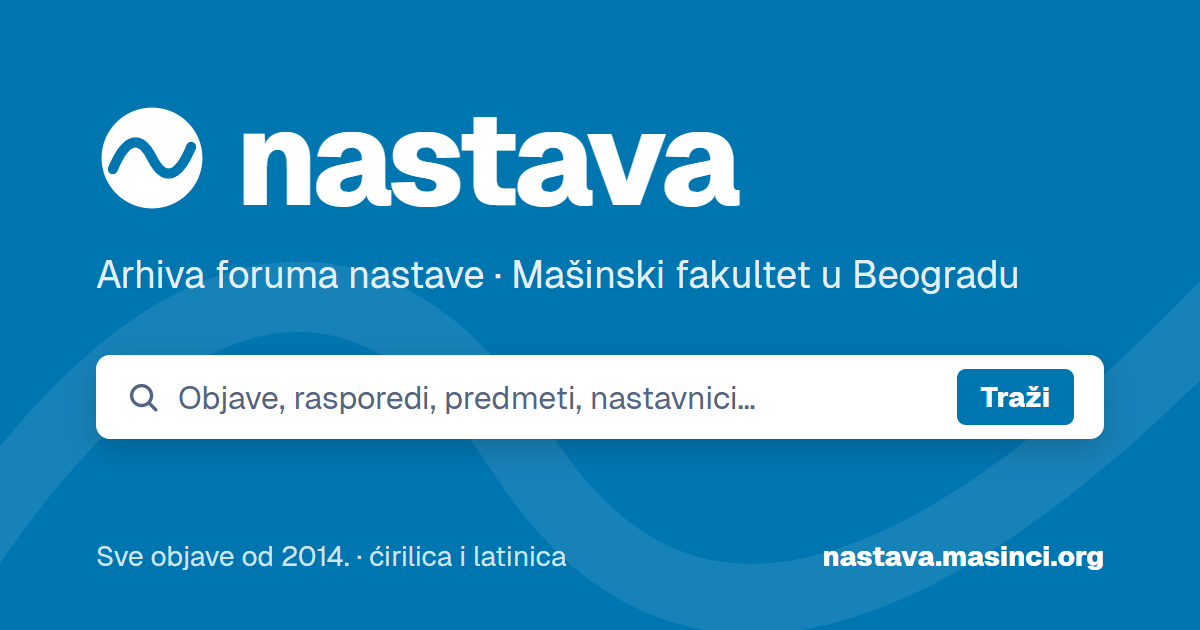
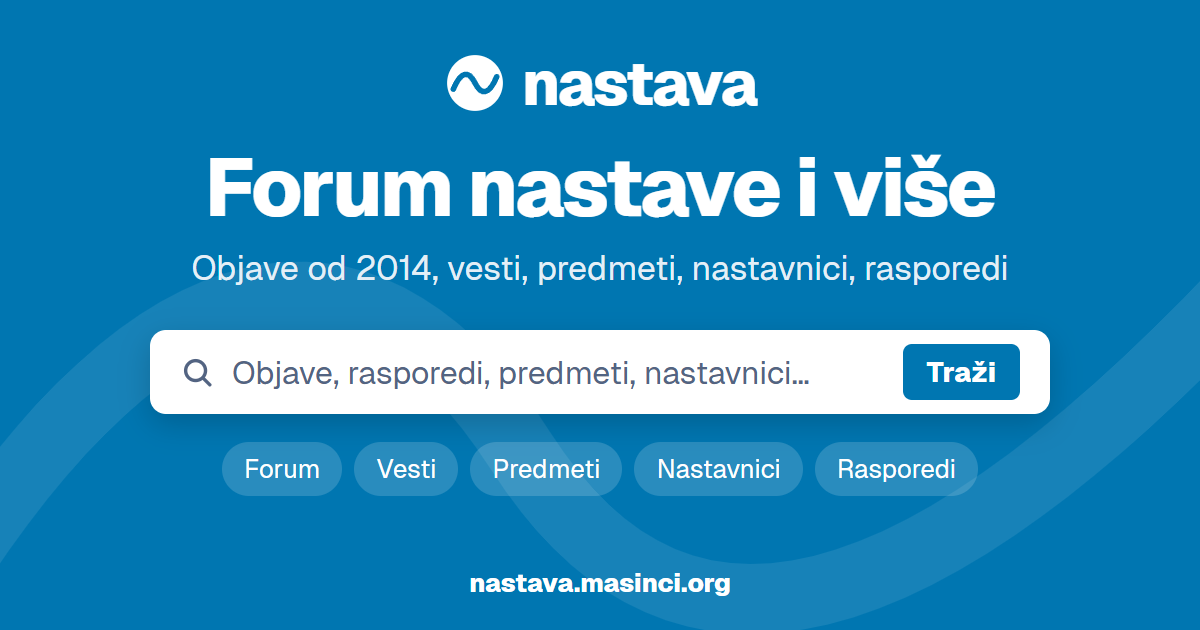
Preview image per section

diff --git a/pages/og.html b/pages/og.html
@@ -1,41 +1,135 @@
 <!doctype html>
-<!-- The link preview image, static/og.png (base.html og:image). To redo it, from pages/ (headless Edge's own
-     --screenshot cuts the bottom: its window size includes the browser's frame):
+<!-- The link preview images, one per section: static/og.png (the home page and the forum's posts) and
+     static/og-<section>.png (base.html block og). The address's #<section> picks one. To redo them, from pages/
+     (headless Edge's own --screenshot cuts the bottom: its window size includes the browser's frame):
      uv run --with playwright python -c "from playwright.sync_api import sync_playwright as s; from pathlib import Path
-     with s() as p: b = p.chromium.launch(channel='msedge'); g = b.new_page(viewport={'width': 1200, 'height': 630}); g.goto(Path('og.html').resolve().as_uri()); g.wait_for_timeout(300); g.screenshot(path='static/og.png')" -->
+     with s() as p:
+      b = p.chromium.launch(channel='msedge')
+      for n in ['', 'raspored', 'nastavnici', 'arhiva', 'predmeti', 'vesti']: g = b.new_page(viewport={'width': 1200, 'height': 630}); g.goto(Path('og.html').resolve().as_uri() + '#' + n); g.wait_for_timeout(300); g.screenshot(path='static/og' + ('-' + n if n else '') + '.png')" -->
 <html lang="sr">
 <meta charset="utf-8">
 <style>
 @font-face { font-family: Geist; src: url(static/fonts/Geist-Regular.woff2); font-weight: 400; }
 @font-face { font-family: Geist; src: url(static/fonts/Geist-ExtraBold.woff2); font-weight: 800; }
 html, body { margin: 0; width: 1200px; height: 630px; overflow: hidden; }
-body { font-family: Geist, sans-serif; color: #fff; background: #0076b1; position: relative; }
+body { font-family: Geist, sans-serif; color: #fff; background: #0076b1; position: relative; text-align: center; }
 /* The brand's wave, large and faint, across the whole image. */
 .wave { position: absolute; inset: 0; width: 100%; height: 100%; }
-.in { position: absolute; left: 96px; right: 96px; top: 92px; }
-.brand { display: flex; align-items: center; gap: 28px; }
-.mark { width: 112px; height: 112px; }
-h1 { font-weight: 800; font-size: 132px; letter-spacing: -4px; line-height: 1; margin: 0; }
-.sub { font-size: 38px; margin: 26px 0 0; color: #e3eff7; }
-.bar { margin-top: 56px; display: flex; align-items: center; gap: 18px; height: 84px; padding: 0 30px; border-radius: 14px;
-       background: #fff; color: #536482; font-size: 32px; box-shadow: 0 10px 30px rgb(0 0 0 / .18); }
+/* Centred, so that a square crop (Viber, WhatsApp: the middle 630px) keeps the brand whole. */
+.brand { position: absolute; top: 52px; left: 0; right: 0; display: flex; justify-content: center; align-items: center; gap: 16px; }
+.mark { width: 62px; height: 62px; }
+.brand b { font-weight: 800; font-size: 62px; letter-spacing: -2px; line-height: 1; }
+h1 { position: absolute; top: 146px; left: 60px; right: 60px; margin: 0; font-weight: 800; font-size: 82px; letter-spacing: -2.5px; line-height: 1; }
+.sub { position: absolute; top: 246px; left: 60px; right: 60px; margin: 0; font-size: 34px; color: #e3eff7; }
+.pic { position: absolute; top: 330px; left: 50%; width: 900px; height: 196px; transform: translateX(-50%); text-align: left; }
+.ft { position: absolute; left: 0; right: 0; bottom: 30px; font-size: 26px; font-weight: 800; }
+/* The picture's parts: white cards with grey bars for text nobody needs to read. */
+.card { background: #fff; color: #536482; border-radius: 16px; box-shadow: 0 10px 30px rgb(0 0 0 / .18); box-sizing: border-box; }
+.ln { display: block; height: 14px; border-radius: 7px; background: #dbe3ec; }
+.row { display: flex; gap: 20px; height: 100%; }
+.row > .card { flex: 1; padding: 22px; }
+/* Home: the search bar and what it covers. */
+.bar { display: flex; align-items: center; gap: 18px; height: 84px; padding: 0 30px; font-size: 32px; }
 .bar b { margin-left: auto; font-weight: 800; color: #fff; background: #0076b1; border-radius: 9px; padding: 10px 24px; font-size: 28px; }
-.ft { position: absolute; left: 96px; right: 96px; bottom: 56px; display: flex; justify-content: space-between; font-size: 28px; color: #cfe3f0; }
-.ft b { color: #fff; font-weight: 800; }
+.chips { display: flex; justify-content: center; gap: 12px; margin-top: 28px; }
+.chips span { font-size: 26px; padding: 10px 22px; border-radius: 99px; background: rgb(255 255 255 / .16); }
+/* Raspored: a week. */
+.week { display: grid; grid-template-columns: repeat(5, 1fr); gap: 12px; height: 100%; padding: 18px 22px; }
+.week > div { position: relative; }
+.week h3, .sem h3 { margin: 0 0 10px; font-size: 20px; font-weight: 800; color: #536482; }
+.week i { position: absolute; left: 0; right: 0; border-radius: 8px; background: #0076b1; }
+/* Nastavnici: people. */
+.who { display: flex; align-items: center; gap: 16px; margin-bottom: 22px; }
+.av { flex: none; width: 64px; height: 64px; border-radius: 50%; background: #cfe3f0; position: relative; overflow: hidden; }
+.av::before { content: ""; position: absolute; left: 21px; top: 12px; width: 22px; height: 22px; border-radius: 50%; background: #0076b1; }
+.av::after { content: ""; position: absolute; left: 10px; top: 38px; width: 44px; height: 40px; border-radius: 50%; background: #0076b1; }
+.who div { flex: 1; display: grid; gap: 10px; }
+.meta { display: flex; align-items: center; gap: 10px; margin-top: 12px; }
+.meta svg { flex: none; }
+.gone .card { background: rgb(255 255 255 / .62); box-shadow: none; }
+.gone .av { background: #e4e8ee; }
+.gone .av::before, .gone .av::after { background: #9aa6b8; }
+/* Predmeti: semesters. */
+.sem { display: grid; grid-template-columns: repeat(4, 1fr); gap: 18px; height: 100%; padding: 20px 22px; }
+.subj { display: flex; align-items: center; gap: 8px; margin-bottom: 18px; }
+.subj .ln { flex: 1; }
+.subj em { font-style: normal; font-size: 15px; font-weight: 800; color: #0076b1; background: #e3eff7; border-radius: 6px; padding: 3px 7px; }
+/* Vesti: headlines, one of them removed by the faculty. */
+.news .card { display: flex; flex-direction: column; gap: 12px; }
+.news .date { width: 40%; height: 12px; background: #cfe3f0; margin-bottom: 6px; }
+.news .t { height: 20px; background: #536482; opacity: .8; }
+.tag { margin-top: auto; align-self: flex-start; font-size: 18px; font-weight: 800; color: #b42318; background: #fde7e4; border-radius: 6px; padding: 5px 10px; }
 </style>
 <svg class="wave" viewBox="0 0 1200 630" preserveAspectRatio="none" aria-hidden="true">
   <path d="M-40 560c220-330 420-330 560-110s360 220 720-160" stroke="#fff" stroke-opacity=".09" stroke-width="70" fill="none" stroke-linecap="round"/>
 </svg>
-<div class="in">
-  <div class="brand">
-    <svg class="mark" viewBox="0 0 40 40" aria-hidden="true"><circle cx="20" cy="20" r="18" fill="#fff"/><path d="M6 24c5-12 10-12 14-4s9 8 14-4" stroke="#0076b1" stroke-width="3.6" stroke-linecap="round" fill="none"/></svg>
-    <h1>nastava</h1>
-  </div>
-  <p class="sub">Arhiva foruma nastave · Mašinski fakultet u Beogradu</p>
-  <div class="bar">
+<div class="brand">
+  <svg class="mark" viewBox="0 0 40 40" aria-hidden="true"><circle cx="20" cy="20" r="18" fill="#fff"/><path d="M6 24c5-12 10-12 14-4s9 8 14-4" stroke="#0076b1" stroke-width="3.6" stroke-linecap="round" fill="none"/></svg>
+  <b>nastava</b>
+</div>
+<h1></h1>
+<p class="sub"></p>
+<div class="pic"></div>
+<div class="ft">nastava.masinci.org</div>
+
+<template id="t-">
+  <div class="card bar">
     <svg width="34" height="34" viewBox="0 0 24 24" fill="none" stroke="#536482" stroke-width="2.4" stroke-linecap="round"><circle cx="11" cy="11" r="7"/><path d="M16.5 16.5L21 21"/></svg>
     Objave, rasporedi, predmeti, nastavnici…<b>Traži</b>
   </div>
-</div>
-<div class="ft"><span>Sve objave od 2014. · ćirilica i latinica</span><b>nastava.masinci.org</b></div>
+  <div class="chips"><span>Forum</span><span>Vesti</span><span>Predmeti</span><span>Nastavnici</span><span>Rasporedi</span></div>
+</template>
+
+<template id="t-raspored">
+  <div class="card week">
+    <div><h3>Pon</h3><i style="top:36px;height:52px"></i><i style="top:96px;height:52px;opacity:.45"></i></div>
+    <div><h3>Uto</h3><i style="top:66px;height:84px;opacity:.7"></i></div>
+    <div><h3>Sre</h3><i style="top:36px;height:52px;opacity:.45"></i><i style="top:96px;height:30px"></i><i style="top:132px;height:24px;opacity:.7"></i></div>
+    <div><h3>Čet</h3><i style="top:36px;height:84px"></i></div>
+    <div><h3>Pet</h3><i style="top:66px;height:52px;opacity:.7"></i><i style="top:126px;height:30px;opacity:.45"></i></div>
+  </div>
+</template>
+
+<!-- Nastavnici and the archive share the cards; the archive's are faded. -->
+<template id="t-nastavnici">
+  <div class="row">
+    <div class="card"><div class="who"><span class="av"></span><div><span class="ln" style="width:90%;background:#536482"></span><span class="ln" style="width:60%"></span></div></div><span class="ln" style="width:80%"></span><div class="meta"><svg width="18" height="18" viewBox="0 0 24 24" fill="none" stroke="#0076b1" stroke-width="2.6"><circle cx="12" cy="12" r="9"/><path d="M12 7v5l3 2"/></svg><span class="ln" style="width:55%"></span></div></div>
+    <div class="card"><div class="who"><span class="av"></span><div><span class="ln" style="width:75%;background:#536482"></span><span class="ln" style="width:70%"></span></div></div><span class="ln" style="width:65%"></span><div class="meta"><svg width="18" height="18" viewBox="0 0 24 24" fill="none" stroke="#0076b1" stroke-width="2.6"><circle cx="12" cy="12" r="9"/><path d="M12 7v5l3 2"/></svg><span class="ln" style="width:70%"></span></div></div>
+    <div class="card"><div class="who"><span class="av"></span><div><span class="ln" style="width:85%;background:#536482"></span><span class="ln" style="width:50%"></span></div></div><span class="ln" style="width:75%"></span><div class="meta"><svg width="18" height="18" viewBox="0 0 24 24" fill="none" stroke="#0076b1" stroke-width="2.6"><circle cx="12" cy="12" r="9"/><path d="M12 7v5l3 2"/></svg><span class="ln" style="width:45%"></span></div></div>
+  </div>
+</template>
+
+<template id="t-predmeti">
+  <div class="card sem">
+    <div><h3>1. semestar</h3><div class="subj"><span class="ln"></span><em>6</em></div><div class="subj"><span class="ln" style="max-width:70%"></span><em>8</em></div><div class="subj"><span class="ln"></span><em>4</em></div></div>
+    <div><h3>2. semestar</h3><div class="subj"><span class="ln" style="max-width:75%"></span><em>6</em></div><div class="subj"><span class="ln"></span><em>6</em></div><div class="subj"><span class="ln" style="max-width:65%"></span><em>8</em></div></div>
+    <div><h3>3. semestar</h3><div class="subj"><span class="ln"></span><em>8</em></div><div class="subj"><span class="ln" style="max-width:60%"></span><em>6</em></div><div class="subj"><span class="ln"></span><em>6</em></div></div>
+    <div><h3>4. semestar</h3><div class="subj"><span class="ln" style="max-width:70%"></span><em>6</em></div><div class="subj"><span class="ln"></span><em>4</em></div><div class="subj"><span class="ln" style="max-width:75%"></span><em>8</em></div></div>
+  </div>
+</template>
+
+<template id="t-vesti">
+  <div class="row news">
+    <div class="card"><span class="ln date"></span><span class="ln t"></span><span class="ln t" style="width:70%"></span><span class="ln" style="margin-top:8px"></span><span class="ln" style="width:85%"></span></div>
+    <div class="card"><span class="ln date"></span><span class="ln t"></span><span class="ln t" style="width:55%"></span><span class="ln" style="margin-top:8px"></span><span class="ln" style="width:75%"></span></div>
+    <div class="card"><span class="ln date"></span><span class="ln t" style="width:90%"></span><span class="ln t" style="width:60%"></span><span class="tag">uklonjeno sa sajta vesti</span></div>
+  </div>
+</template>
+
+<script>
+// Each image: its headline, the line under it and its picture's template (the archive borrows the teachers').
+const pages = {
+  '': ['Forum nastave i više', 'Objave od 2014, vesti, predmeti, nastavnici, rasporedi'],
+  raspored: ['Kalendar i rasporedi', 'Predavanja i ispiti, sa svim ranijim verzijama'],
+  nastavnici: ['Nastavnici', 'Konsultacije, kabineti i mejlovi, po katedrama'],
+  arhiva: ['Arhiva nastavnika', 'Nastavnici koji više nisu na spisku fakulteta', 'nastavnici'],
+  predmeti: ['Predmeti', 'Svi programi, moduli i semestri, sa ESPB'],
+  vesti: ['Vesti', 'Vesti fakulteta, i one koje je fakultet uklonio'],
+};
+const n = location.hash.slice(1), [h, sub, pic = n] = pages[n];
+document.querySelector('h1').textContent = h;
+document.querySelector('.sub').textContent = sub;
+document.querySelector('.pic').append(document.getElementById('t-' + pic).content.cloneNode(true));
+if (n === 'arhiva') document.querySelector('.pic').classList.add('gone');
+</script>
 </html>

diff --git a/pages/templates/base.html b/pages/templates/base.html
@@ -16,11 +16,14 @@
 <meta property="og:type" content="{% block og_type %}website{% endblock %}">
 <meta property="og:site_name" content="arhiva nastave · Mašinski fakultet">
 <meta property="og:locale" content="sr_RS">
-{#- The site's image (pages/og.html) for every page; summary_large_image: X and Discord show it wide. -#}
-<meta property="og:image" content="{{ site_url }}/static/og.png">
+{#- The section's image (pages/og.html): block og is its name after "og", as "-predmeti"; the home page, the forum's
+    posts and the rest keep og.png. The alt: the image's headline. summary_large_image: X and Discord show it wide. -#}
+{%- set og_alt = {'': 'Forum nastave i više', '-raspored': 'Kalendar i rasporedi', '-nastavnici': 'Nastavnici',
+                  '-arhiva': 'Arhiva nastavnika', '-predmeti': 'Predmeti', '-vesti': 'Vesti'} %}
+<meta property="og:image" content="{{ site_url }}/static/og{% block og %}{% endblock %}.png">
 <meta property="og:image:width" content="1200">
 <meta property="og:image:height" content="630">
-<meta property="og:image:alt" content="nastava, arhiva foruma nastave Mašinskog fakulteta u Beogradu">
+<meta property="og:image:alt" content="nastava: {{ og_alt[self.og()] }}, Mašinski fakultet u Beogradu">
 <meta name="twitter:card" content="summary_large_image">
 {%- block head %}{% endblock %}<!--/head-->
 <link rel="preload" href="/static/fonts/Geist-Regular.woff2" as="font" type="font/woff2" crossorigin>

diff --git a/pages/templates/nastavnik.html b/pages/templates/nastavnik.html
@@ -6,6 +6,7 @@
 {#- past (set in each block): known only from the faculty's history (build.py load_history), never on its list here. -#}
 {% block description %}{% set h = t.history %}{% if h and not t.first_seen %}{{ t.shown }}{% if t.title %}, {{ t.title }}{% endif %}{% if t.katedra %}, {{ t.katedra }}{% endif %}, nastavnik Mašinskog fakulteta u Beogradu{% if h.years %} (na fakultetu {{ h.years }}){% endif %}: izvori iz istorije fakulteta.{% else %}{{ t.shown }}, {{ t.title }}{% if t.katedra %}, {{ t.katedra }}{% endif %}, Mašinski fakultet u Beogradu: konsultacije, kabinet, mejl, predmeti i objave na forumu nastave.{% endif %}{% endblock %}
 {% block og_type %}profile{% endblock %}
+{% block og %}-{{ 'arhiva' if t.gone else 'nastavnici' }}{% endblock %}
 {% block crumbs %}{{ crumb('/nastavnici/', 'Nastavnici') }}{% if t.gone %}{{ crumb('/nastavnici/arhiva/', 'Arhiva') }}{% endif %}{% endblock %}
 {%- macro est(y, guess) %}{% if guess %}<span class="est" title="procena">~{{ y }}</span>{% else %}{{ y }}{% endif %}{% endmacro %}
 

diff --git a/pages/templates/nastavnici.html b/pages/templates/nastavnici.html
@@ -6,6 +6,7 @@
 
 {% block title %}{% if archive %}Arhiva nastavnika{% else %}Nastavnici{% endif %}{% endblock %}
 {% block description %}{% if archive %}Nastavnici Mašinskog fakulteta u Beogradu koji više nisu na spisku fakulteta: zvanja, katedre, predmeti i objave na forumu nastave.{% else %}Nastavnici i saradnici Mašinskog fakulteta u Beogradu po katedrama i zvanjima: konsultacije, kabineti, mejlovi, predmeti i objave na forumu nastave.{% endif %}{% endblock %}
+{% block og %}-{{ 'arhiva' if archive else 'nastavnici' }}{% endblock %}
 {% block crumbs %}{% if archive %}{{ crumb('/nastavnici/', 'Nastavnici') }}{% endif %}{% endblock %}
 
 {%- macro card(t) %}

diff --git a/pages/templates/raspored.html b/pages/templates/raspored.html
@@ -6,6 +6,7 @@
     under the other), then the exam schedule as the faculty's page has it. The sources link the archived pages,
     which keep every version. -#}
 {% block title %}Kalendar i rasporedi{% endblock %}
+{% block og %}-raspored{% endblock %}
 {% block description %}Kalendar nastave i ispita, raspored predavanja po godinama i modulima i raspored ispita Mašinskog fakulteta u Beogradu, sa svim ranijim verzijama.{% endblock %}
 
 {%- macro pdf() %}<svg class="i" aria-hidden="true"><use href="/static/icons.svg#i-file"></use></svg>{% endmacro %}

diff --git a/pages/templates/predmet_opis.html b/pages/templates/predmet_opis.html
@@ -5,6 +5,7 @@
 {% block title %}{{ s.name }}{% endblock %}
 {% block title_more %} · {{ s.program }}{% endblock %}
 {% block description %}{{ s.name }}, {{ s.program }}{% if s.ects %}, {{ s.ects }} ESPB{% endif %}, Mašinski fakultet u Beogradu: nastavnici, cilj, sadržaj i literatura predmeta.{% endblock %}
+{% block og %}-predmeti{% endblock %}
 {% block crumbs %}{{ crumb('/predmeti/', 'Predmeti') }}{% endblock %}
 
 {#- A subject of the faculty's subject book: its head (where it is taught, by whom), its forum topics here, then the

diff --git a/pages/templates/cent.html b/pages/templates/cent.html
@@ -6,6 +6,7 @@
 {%- set _old = v is not sameas page.versions[0] %}
 {% block title %}{{ v.title }} · {{ subj.name }}{% if _old %} ({{ v.first_seen | dmy }}){% endif %}{% endblock %}
 {% block description %}{{ v.title }} · {{ subj.name }}: {{ v.html | striptags | desc }}{% endblock %}
+{% block og %}-predmeti{% endblock %}
 {% block crumbs %}{{ crumb(subj.smer.href, subj.smer.label) }}{{ crumb(subj.href, subj.name) }}{% if _old %}{{ crumb(page.versions[0].href, page.title) }}{% endif %}{% endblock %}
 
 {% block main %}

diff --git a/pages/templates/predmet.html b/pages/templates/predmet.html
@@ -5,6 +5,7 @@
 {#- One name is a subject in several smerovi. -#}
 {% block title_more %} · {{ subj.smer.short }}{% endblock %}
 {% block description %}{{ subj.name }} ({{ subj.smer.label }}), Mašinski fakultet u Beogradu: sve objave sa foruma nastave, {{ subj.topics | n }} {{ subj.topics | pl('objava') }} — rezultati, termini ispita i obaveštenja.{% endblock %}
+{% block og %}-predmeti{% endblock %}
 {% block crumbs %}{{ crumb(subj.smer.href, subj.smer.label) }}{% endblock %}
 
 {% block main %}

diff --git a/pages/templates/studije.html b/pages/templates/studije.html
@@ -6,6 +6,7 @@
 {%- set _old = page is not sameas current %}
 {% block title %}{{ page.title }}{% if _old %} ({{ page.first_seen | dmy }}){% endif %}{% endblock %}
 {% block description %}{{ page.title }}, Mašinski fakultet u Beogradu: {{ html | striptags | desc }}{% endblock %}
+{% block og %}-raspored{% endblock %}
 {% block crumbs %}{{ crumb('/raspored/', 'Kalendar i rasporedi') }}{% if _old %}{{ crumb(current.href, current.title) }}{% endif %}{% endblock %}
 
 {% block main %}

diff --git a/pages/templates/predmeti.html b/pages/templates/predmeti.html
@@ -2,6 +2,7 @@
 {% set origin = 'https://www.mas.bg.ac.rs/studije/predmeti/start' %}
 
 {% block title %}Predmeti{% endblock %}
+{% block og %}-predmeti{% endblock %}
 {% block description %}Svi predmeti Mašinskog fakulteta u Beogradu po studijskim programima, modulima i semestrima, sa izbornim blokovima, ESPB, nastavnicima i objavama sa foruma.{% endblock %}
 
 {#- One row of the list. The data-* are what site.js filters, groups and sorts by: k katedra, p program (Latin slugs,

diff --git a/pages/templates/vesti.html b/pages/templates/vesti.html
@@ -7,6 +7,7 @@
 {%- set _newest = year == years[0] %}
 {% block title %}Vesti{% if not _newest %} {{ year }}{% endif %}{% endblock %}
 {% block description %}Vesti Mašinskog fakulteta u Beogradu iz {{ year }}. godine, sa vesti.mas.bg.ac.rs, i one koje je fakultet uklonio.{% endblock %}
+{% block og %}-vesti{% endblock %}
 {% block crumbs %}{% if not _newest %}{{ crumb('/vesti/', 'Vesti') }}{% endif %}{% endblock %}
 
 {% block main %}

diff --git a/pages/templates/smer.html b/pages/templates/smer.html
@@ -2,6 +2,7 @@
 {% from "rows.html" import forum_rows, topic_rows %}
 
 {% block title %}{{ smer.label }}{% endblock %}
+{% block og %}-predmeti{% endblock %}
 {% block description %}{{ smer.label }}, Mašinski fakultet u Beogradu: {{ smer.subjects | n }} {{ smer.subjects | pl('predmet') }} i {{ smer.topics | n }} {{ smer.topics | pl('objava') }} sa foruma nastave.{% endblock %}
 
 {% block main %}
